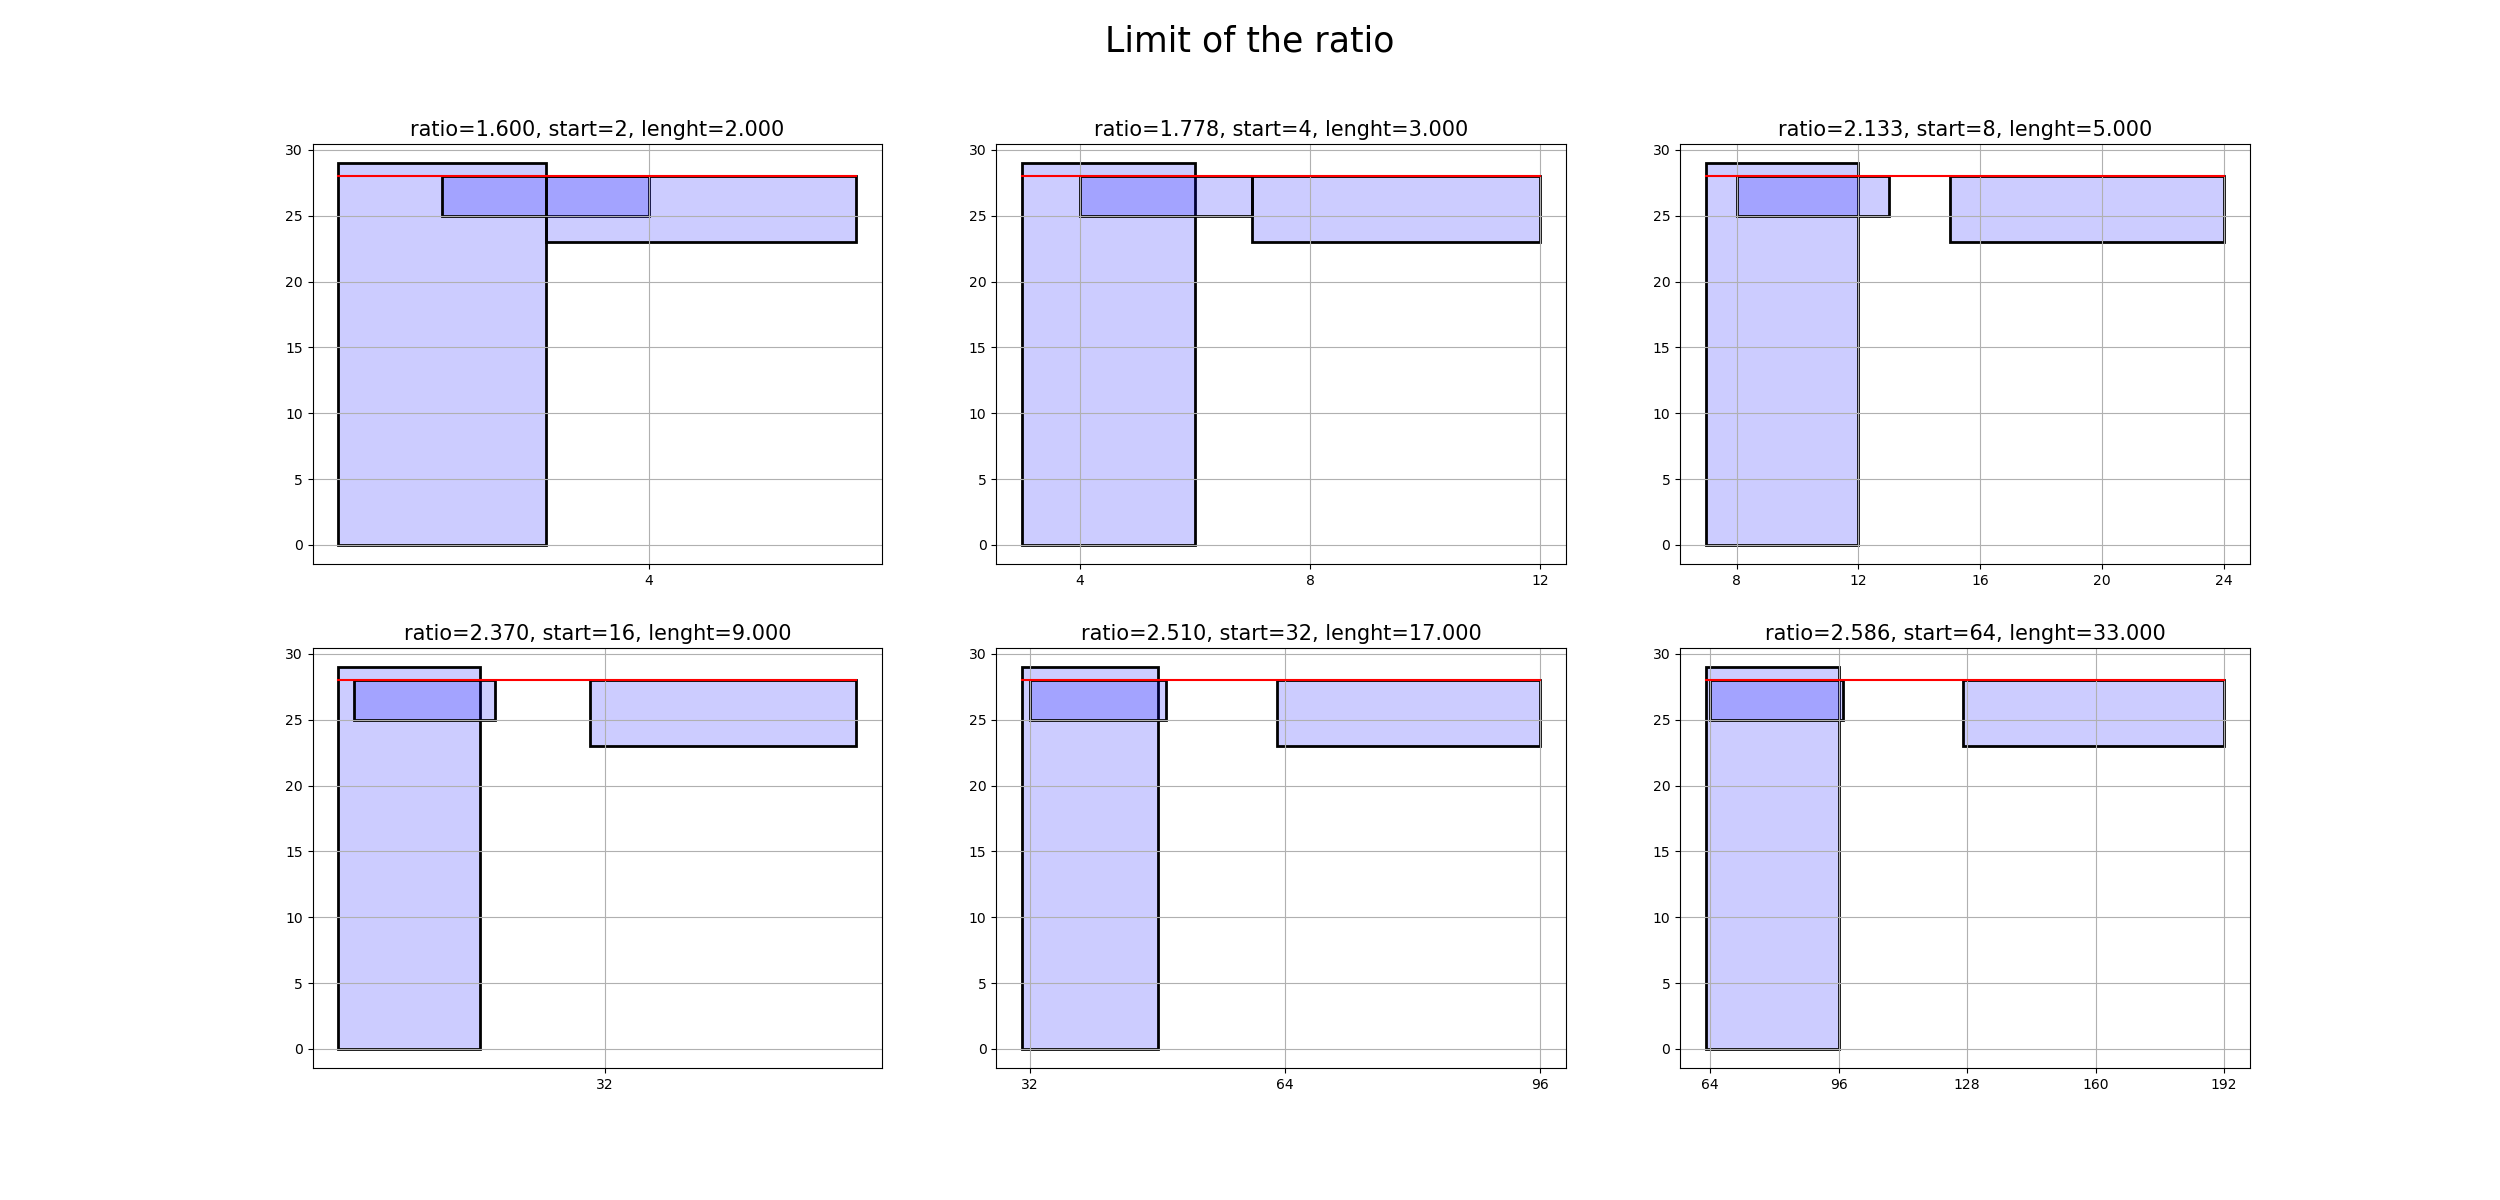
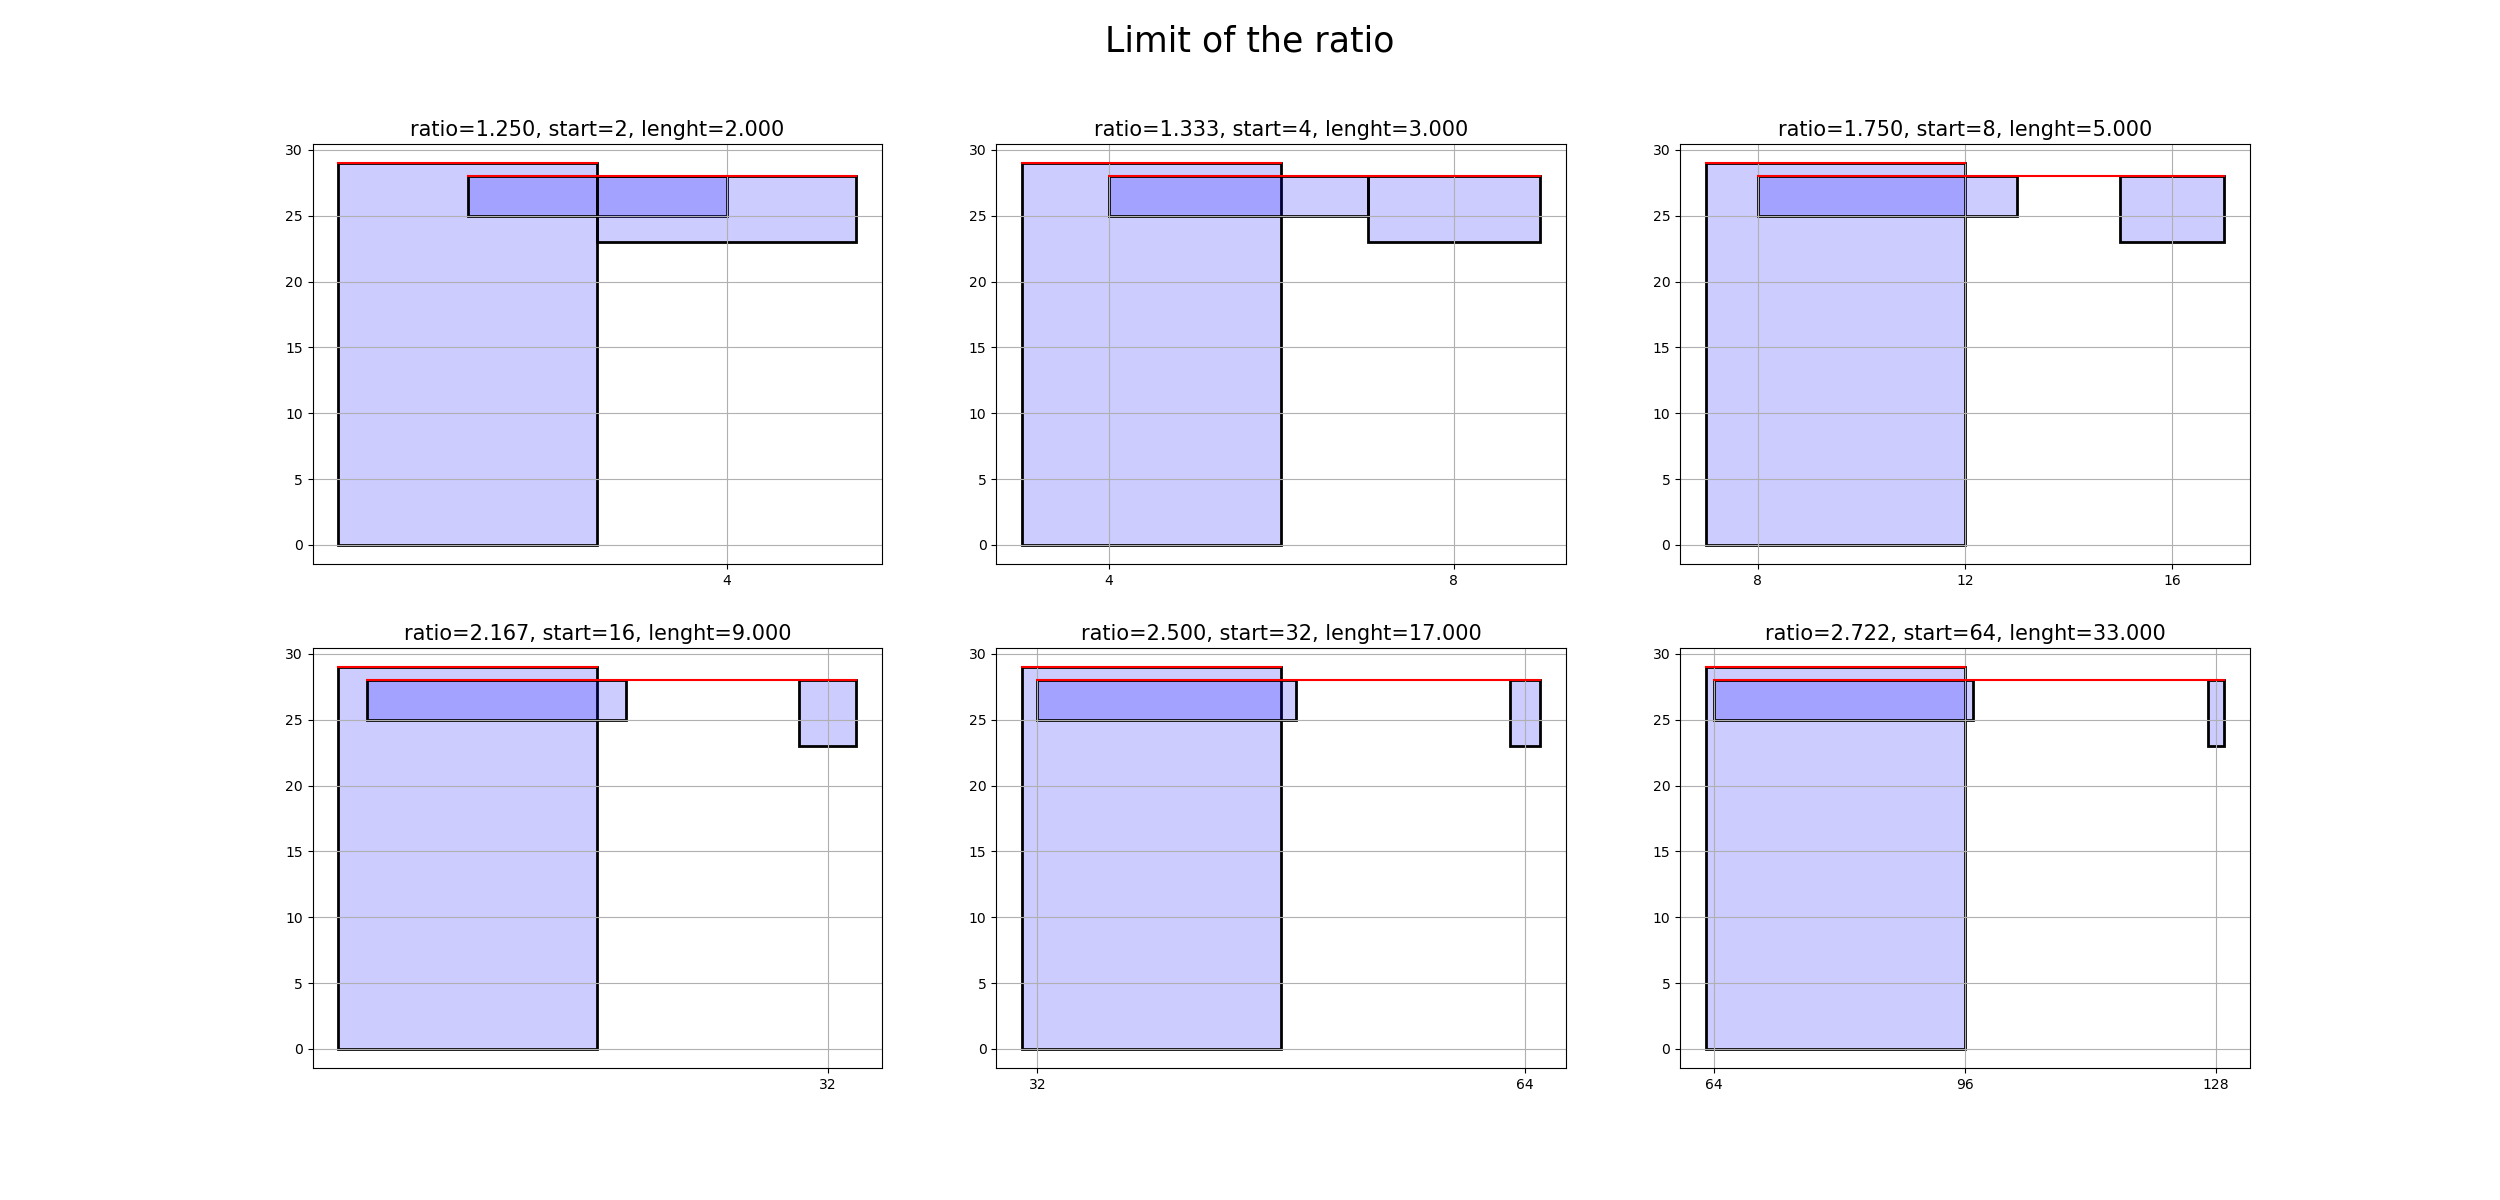
small modification to adapt to the corrections

diff --git a/test_approximation.py b/test_approximation.py
@@ -13,7 +13,7 @@ iter=0
 while ratio<8 and iter<10000:
     #creation example random
     
-    n=rd.randrange(3,21) #max number of Rectangle in E -1
+    n=rd.randrange(3,15) #max number of Rectangle in E -1
     maxx=150 #maximum value for x-1 and y-1
     maxy=150
     List_Rect=[]
@@ -90,16 +90,16 @@ while ratio<8 and iter<10000:
 
     #write on file
     
-    fr=open("ratio_random.txt","a")
-    if ratio>=3:
+    fr=open("ratio_random_afteramelioration.txt","a")
+    if ratio>=1.5:
         fr.write("\n")
     fr.write(str(ratio)+" ")
     fr.close()
     
 
     
-    if ratio>=4.5 or ratio<=2.0:
-        f=open("ratio_and_Rect_random.txt","a")
+    if ratio>=3.5 :
+        f=open("ratio_and_Rect_afteramelioration.txt","a")
         f.write("ratio="+str(ratio)+" Rectangles:")
         for R in E.Origin_Rect:
             f.write("[("+str(R.xb)+","+str(R.yb)+") , ("+str(R.xh)+","+str(R.yh)+")]")
@@ -107,7 +107,7 @@ while ratio<8 and iter<10000:
         f.close()
     
 
-    if ratio>=4.3 or ratio<=1.4:
+    if ratio>=3.5 :
 
         fig, ax=plt.subplots(3,sharex=True)
         fig.set_figheight(8)
@@ -131,7 +131,7 @@ while ratio<8 and iter<10000:
 
         ax[0].set_title('True solution on the orignal instance, OPT='+str(exact_sol))
         ax[1].set_title('Approximate solution on the original instance, ALG='+str(sol_approx))
-        ax[2].set_title('Dp solution on the laminar instance, LAM='+str(opti[E.name]))
+        ax[2].set_title('Dp solution on the laminar instance, LAM='+str(opti[E.name][0]))
 
         #tick postion
         ax[0].xaxis.set_major_locator(plt.MultipleLocator(4))

diff --git a/limit_ratio.py b/limit_ratio.py
@@ -9,7 +9,7 @@ from gurobipy import GRB
 import copy
 
 
-maxpower= 12 #must be odd for good graph if //2
+maxpower= 14 #must be odd for good graph if //2
 if maxpower<=7: #plot the figures
     fig, ax=plt.subplots(2,maxpower//2+1)
     fig.set_figheight(12)
@@ -69,7 +69,7 @@ for power in range(0,maxpower+1):
     segms=[]
     Dpfonction.DPstabbing(E,opti,segms)
     segm_feasible=Dpfonction.transform_to_feasible(E,segms)
-    sol_approx=opti[E.name]*2
+    sol_approx=sum(s.l for s in segm_feasible)
     
 
     #Ratio

diff --git a/test_complexity.py b/test_complexity.py
@@ -26,7 +26,7 @@ for maxx in maxXY:
         segms=[]
         Dpfonction.DPstabbing(E,opti,segms)
         segm_feasible=Dpfonction.transform_to_feasible(segms)
-        sol_approx=opti[E.name]*2
+        sol_approx=sum(s.l for s in segm_feasible)
         end_time=time.time()
         Time.append(end_time-start_time)
     plt.semilogy(N,Time,label='max(xh,yh)='+str(maxx))
